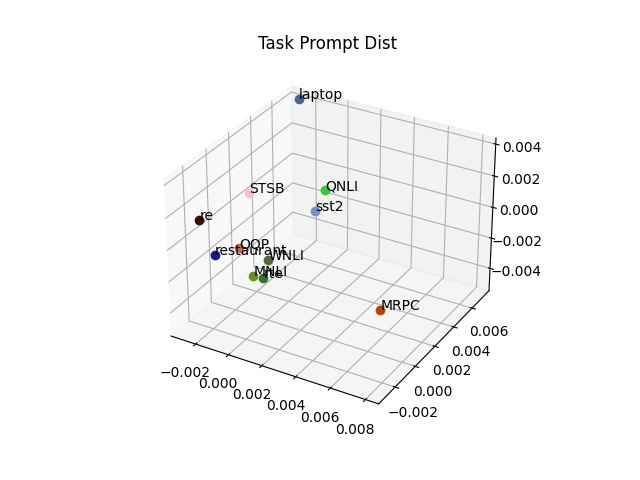
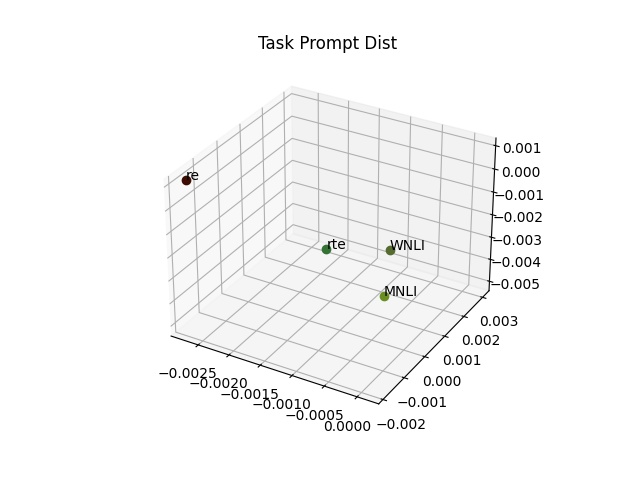
update

Changed region(s): [[0.25, 0.1875, 0.8438, 0.9062]]

diff --git a/draw_cuda_taskprompt.py b/draw_cuda_taskprompt.py
@@ -392,6 +392,9 @@ blocked_list = []
 #sentiment, NLI, RE, Paraphrase
 #blocked_list = [5,8]
 
+#NLI, RE
+blocked_list = [0,4,5,6,8,9,10]
+
 #sentiment, RE
 #blocked_list = [5,8,3,4,5,6,7,8,2]
 
@@ -403,6 +406,8 @@ blocked_list = []
 
 #NLI, Paraphrase
 #blocked_list = [0,1,2,5,8,9,10]
+
+
 
 #re generate id
 #plot on 3D: https://www.delftstack.com/zh-tw/howto/matplotlib/scatter-plot-legend-in-matplotlib/#%25E5%259C%25A8-matplotlib-3d-%25E6%2595%25A3%25E9%25BB%259E%25E5%259C%2596%25E4%25B8%258A%25E6%2596%25B0%25E5%25A2%259E%25E5%259C%2596%25E4%25BE%258B
